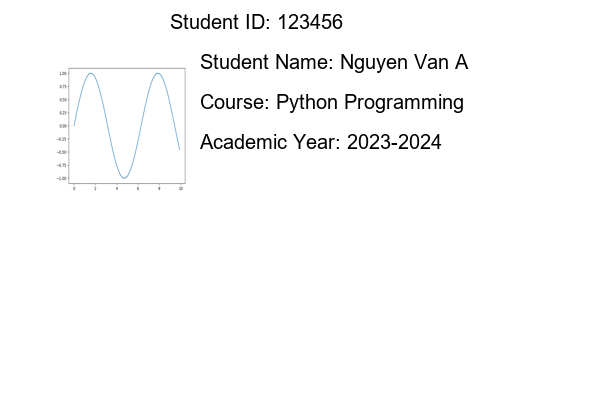
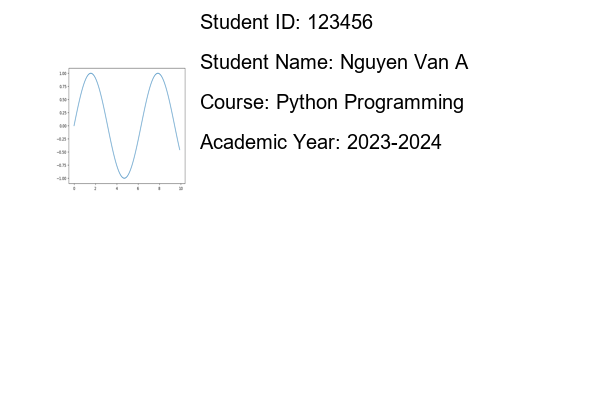
bt3-bt4

Changed region(s): [[0.27, 0.03, 0.63, 0.09]]

diff --git a/TheSinhVien/main/createStudentCard.py b/TheSinhVien/main/createStudentCard.py
@@ -1,0 +1,147 @@
+from io import BytesIO
+from PIL import Image, ImageDraw, ImageFont
+from PyPDF2 import PdfFileReader, PdfFileWriter
+import qrcode
+from unidecode import unidecode
+import os
+
+
+# Độ phân giải xuất ảnh
+DPI = 300
+# Kích thước thẻ theo cm
+widthCard = 8.6
+hightCard = 5.4
+# Kích thước thẻ theo pixel
+width =int(widthCard * DPI)
+hight = int(hightCard * DPI)
+
+# Đường dẫn tới file ảnh
+backgroundImagePath = "TheSinhVien/assets/image/background.jpg"
+logoImagePath = "TheSinhVien/assets/image/logo.png"
+
+
+
+def renderStudentCard(student, i):
+    imageStudentPath = student.anhThe
+    # Tạo ảnh nền cho thẻ sinh viên
+    # img = Image.new('RGB', (width, hight), (255, 255, 255))
+    img = Image.open(backgroundImagePath)
+    img = img.resize((width, hight))
+
+    # Vẽ khung trên 
+    draw = ImageDraw.Draw(img)
+    hightHeader = int(hight/4)
+    draw.rectangle((0, 0, width, hightHeader), fill =(0, 0, 102))
+
+    
+    # Tạo đối tượng QRCode
+    qr = qrcode.QRCode(version=1, box_size=15, border=1)
+    # Lưu dữ liệu vào QRCode
+    data = student.hoTen
+    qr.add_data(data)
+    # Tạo QRCode
+    qr.make(fit=True)
+    # Lấy hình ảnh của QRCode
+    imgQr = qr.make_image(fill_color="black", back_color="white")
+    widthQr, heightQr = imgQr.size
+    qr_pos = ((width - widthQr), (hight - heightQr))
+    
+
+    # Vẽ logo
+    student_image = Image.open(logoImagePath)
+    widthLogo = int(width/6)
+    paddingLogo = 50
+    hightLogo = int(hightHeader) - paddingLogo*2
+    student_image = student_image.resize((widthLogo, hightLogo))
+    img.paste(student_image, (paddingLogo, paddingLogo))
+
+    # Tiêu đề trường phía trên
+    fontHeader = ImageFont.truetype('arialbd.ttf', 100)
+    headerTitle = "BỘ GIÁO DỤC VÀ ĐÀO TẠO"
+    headerTitle2 = "TRƯỜNG ĐẠI HỌC PHÚ XUÂN"
+    textWidthHeader, textHeightHeader = fontHeader.getsize(headerTitle)
+    textWidthHeader2, textHeightHeader2 = fontHeader.getsize(headerTitle2)
+    paddingLeft = ((width - widthLogo - paddingLogo * 2) - textWidthHeader) / 2 + (widthLogo + paddingLogo * 2)
+    paddingLeft2 = ((width - widthLogo - paddingLogo * 2) - textWidthHeader2) / 2 + (widthLogo + paddingLogo * 2)
+   
+    paddingTop = (hightHeader - textHeightHeader) / 4
+    paddingTop2 = (hightHeader - textHeightHeader2) / 1.5
+  
+    draw.text((paddingLeft, paddingTop), headerTitle, font=fontHeader, fill=(255, 204, 0))
+    draw.text((paddingLeft2, paddingTop2), headerTitle2, font=fontHeader, fill=(255, 204, 0))
+
+    # Ảnh sinh viên
+    hightImage = int(hight / 2 )
+    withImage = int(width / 4)
+    # draw.rectangle((paddingLogo, hightHeader + 100, withImage, hightImage), fill ='black')
+    imgLogo = Image.open(imageStudentPath)
+    imgLogo = imgLogo.resize((withImage, hightImage))
+    imageStudentPos = ((paddingLogo, hightHeader + 100))
+    img.paste(imgLogo, imageStudentPos)
+
+    # Thêm text Thẻ sinh viên
+    fontStudentCard = ImageFont.truetype('arialbd.ttf', 120)
+    titleStudentCard = "Thẻ Sinh Viên"
+    textWidthStudentCard, textHeightStudentCard = fontStudentCard.getsize(titleStudentCard)
+    paddingLeftStudentCard = ((width - withImage - paddingLogo * 2) - textWidthStudentCard) / 2 + (withImage + paddingLogo * 2)
+    paddingTopStudentCard = (hightHeader  + 100) 
+    draw.text((paddingLeftStudentCard, paddingTopStudentCard), titleStudentCard, font=fontStudentCard, fill=(180, 37, 50))
+
+    # Thêm text Họ và tên
+    fillText = (0, 0, 0)
+    fontInfo= ImageFont.truetype('arial.ttf', 80)
+    fontInfoDetail= ImageFont.truetype('arialbd.ttf', 80)
+    paddingLeftInfo= paddingLogo * 2 + withImage
+    paddingTopText = 130
+    paddingTopName = paddingTopStudentCard + paddingTopText
+    textWidthName, textHeightName = fontInfo.getsize("Họ và Tên")
+    draw.text((paddingLeftInfo, paddingTopName), "Họ và Tên:", font=fontInfo, fill=fillText)
+    draw.text((paddingLeftInfo + textWidthName + 50, paddingTopName), student.hoTen, font=fontInfoDetail, fill=fillText)
+
+
+    paddingTopName = paddingTopStudentCard + paddingTopText * 2
+    textWidthBirthday, textHeightBirthday = fontInfo.getsize("Ngày Sinh:")
+    draw.text((paddingLeftInfo, paddingTopName), "Ngày Sinh:", font=fontInfo, fill=fillText)
+    draw.text((paddingLeftInfo + textWidthBirthday + 50, paddingTopName), student.ngaySinh, font=fontInfoDetail, fill=fillText)
+
+
+    paddingTopName = paddingTopStudentCard + paddingTopText * 3
+    textWidthKhoa, textHeightKhoa = fontInfo.getsize("Khoa:")
+    draw.text((paddingLeftInfo, paddingTopName), "Khoa:", font=fontInfo, fill=fillText)
+    draw.text((paddingLeftInfo + textWidthKhoa + 50, paddingTopName), student.khoa, font=fontInfoDetail, fill=fillText)
+
+    paddingTopName = paddingTopStudentCard + paddingTopText * 4
+    textWidthKhoa, textHeightKhoa = fontInfo.getsize("Ngành:")
+    draw.text((paddingLeftInfo, paddingTopName), "Ngành:", font=fontInfo, fill=fillText)
+    draw.text((paddingLeftInfo + textWidthKhoa + 50, paddingTopName), student.nganh, font=fontInfoDetail, fill=fillText)
+
+    paddingTopName = paddingTopStudentCard + paddingTopText * 5
+    textWidthKhoa, textHeightKhoa = fontInfo.getsize("Niên khoá:")
+    draw.text((paddingLeftInfo, paddingTopName), "Niên khoá:", font=fontInfo, fill=fillText)
+    draw.text((paddingLeftInfo + textWidthKhoa + 50, paddingTopName), student.nienKhoa, font=fontInfoDetail, fill=fillText)
+
+    paddingTopName = paddingTopStudentCard + paddingTopText * 6
+    textWidthKhoa, textHeightKhoa = fontInfo.getsize("Mã sinh viên:")
+    draw.text((paddingLeftInfo, paddingTopName), "Mã sinh viên:", font=fontInfo, fill=fillText)
+    draw.text((paddingLeftInfo + textWidthKhoa + 50, paddingTopName), student.maSV, font=fontInfoDetail, fill=fillText)
+
+    paddingTopName = paddingTopStudentCard + paddingTopText * 7
+    textWidthKhoa, textHeightKhoa = fontInfo.getsize("Đại học 3 năm, tốt nghiệp sớm, việc làm ngay!")
+    # draw.text((paddingLeftInfo, paddingTopName), "Mã sinh viên:", font=fontInfo, fill=fillText)
+    draw.text(((width - textWidthKhoa - widthQr) / 2, paddingTopName), "Đại học 3 năm, tốt nghiệp sớm, việc làm ngay!", font=fontInfoDetail, fill=fillText)
+
+    img.paste(imgQr, qr_pos)
+
+
+    # draw.text((170, 100), student_name, font=font, fill=(0, 0, 0))
+    nameStudentCard = f"{unidecode(student.hoTen).replace(' ', '')}"
+    # Tạo thư mục mới
+    folder_path = f"./TheSinhVien/output/{unidecode(student.khoa).replace(' ', '')}/{unidecode(student.nganh).replace(' ', '')}/{student.lop}"
+    os.makedirs(folder_path, exist_ok=True)
+
+    # Lưu file ảnh
+    # file_name = 'image1.jpg'
+    file_path = os.path.join(folder_path, f"{nameStudentCard}.png")
+    img.save(file_path)
+    
+    # img.save(f'TheSinhVien/output/{nameStudentCard}.png')

diff --git a/TheSinhVien/main/layout.py b/TheSinhVien/main/layout.py
@@ -1,0 +1,101 @@
+import tkinter as tk
+from tkinter import filedialog
+import openpyxl
+from PIL import Image, ImageDraw, ImageFont
+
+class Application(tk.Frame):
+    def __init__(self, master=None):
+        super().__init__(master)
+        self.master = master
+        self.pack()
+        self.create_widgets()
+
+    def create_widgets(self):
+        # Tạo label để yêu cầu người dùng chọn file Excel
+        self.excel_label = tk.Label(self, text="Chọn file Excel")
+        self.excel_label.pack(side="top")
+
+        # Tạo button để cho người dùng chọn file Excel
+        self.excel_button = tk.Button(self, text="Chọn file", command=self.select_excel)
+        self.excel_button.pack(side="top")
+
+        # Tạo label để yêu cầu người dùng chọn mẫu thẻ sinh viên
+        self.template_label = tk.Label(self, text="Chọn mẫu thẻ sinh viên")
+        self.template_label.pack(side="top")
+
+        # Tạo listbox để cho người dùng chọn mẫu thẻ sinh viên
+        self.template_listbox = tk.Listbox(self, height=3)
+        self.template_listbox.pack(side="top")
+        self.template_listbox.insert(1, "Mẫu 1")
+        self.template_listbox.insert(2, "Mẫu 2")
+        self.template_listbox.insert(3, "Mẫu 3")
+
+        # Tạo button để bắt đầu tạo thẻ sinh viên
+        self.create_button = tk.Button(self, text="Tạo thẻ sinh viên", command=self.create_cards)
+        self.create_button.pack(side="bottom")
+
+    def select_excel(self):
+        # Mở hộp thoại để cho người dùng chọn file Excel
+        self.excel_file = filedialog.askopenfilename()
+
+    def create_cards(self):
+        # Lấy thông tin file Excel và mẫu thẻ được chọn bởi người dùng
+        excel_file = self.excel_file
+        template = self.template_listbox.get(self.template_listbox.curselection())
+
+        # Gọi hàm để tạo thẻ sinh viên
+        create_student_cards(excel_file, template)
+
+# Hàm để tạo thẻ sinh viên
+def create_student_cards(excel_file, template):
+    # Code để tạo thẻ sinh viên từ file Excel và mẫu thẻ được chọn
+    # Mở file Excel và chọn sheet để đọc dữ liệu
+    wb = openpyxl.load_workbook(excel_file)
+    sheet = wb.active
+
+    # Lấy thông tin về số lượng sinh viên và các trường thông tin cần hiển thị trên thẻ sinh viên
+    num_students = sheet.max_row - 1
+    headers = [cell.value for cell in sheet[1]]
+
+    # Load mẫu thẻ sinh viên
+    template_file = f"{template}.png"
+    card = Image.open(template_file)
+
+    # Đặt font và kích thước cho các trường thông tin trên thẻ sinh viên
+    font = ImageFont.truetype("arial.ttf", 16)
+    text_color = (0, 0, 0)
+
+    # Vẽ các trường thông tin lên thẻ sinh viên cho từng sinh viên
+    for i in range(2, sheet.max_row + 1):
+        # Lấy thông tin của một sinh viên
+        student_info = [cell.value for cell in sheet[i]]
+
+        # Tạo một hình ảnh mới từ mẫu thẻ sinh viên
+        new_card = card.copy()
+
+        # Vẽ các trường thông tin lên hình ảnh thẻ sinh viên
+        draw = ImageDraw.Draw(new_card)
+        for j, header in enumerate(headers):
+            x = 50
+            y = 100 + j * 30
+            draw.text((x, y), f"{header}: {student_info[j]}", font=font, fill=text_color)
+
+        # Lưu hình ảnh thẻ sinh viên mới
+        new_card.save(f"card_{i-1}.png")
+
+def show_student_card(student_id):
+    # Tạo đường dẫn đến hình ảnh thẻ sinh viên
+    image_path = f"card_{student_id}.png"
+    
+    # Kiểm tra xem hình ảnh có tồn tại không
+    if not os.path.exists(image_path):
+        print(f"Hình ảnh thẻ sinh viên {student_id} không tồn tại.")
+        return
+    
+    # Đọc hình ảnh thẻ sinh viên và hiển thị nó
+    image = Image.open(image_path)
+    image.show(title=f"Thẻ sinh viên {student_id}")
+    
+root = tk.Tk()
+app = Application(master=root)
+app.mainloop()

diff --git a/TheSinhVien/main/readFileExcel.py b/TheSinhVien/main/readFileExcel.py
@@ -1,0 +1,41 @@
+# pip install wheel
+# pip install pandas
+# pip install openpyxl
+import pandas as pd
+
+
+class Student:
+    def __init__(self, maSV, hoTen, ngaySinh, khoa, nganh, lop, nienKhoa, anhThe):
+        self.maSV = maSV
+        self.hoTen = hoTen
+        self.ngaySinh = ngaySinh
+        self.khoa = khoa
+        self.nganh = nganh
+        self.lop = lop
+        self.nienKhoa = nienKhoa
+        self.anhThe = anhThe
+        # self.xepLoai = self.xepLoaiHocLuc()
+# đọc file excel
+
+
+def readExcel(url):
+    # đọc file excel
+    # skiprows: bỏ qua n dòng đầu tiên
+    # nrows: chỉ đọc n dòng
+    # usecols: chỉ đọc cột 1 => 8
+    # iloc[a, b] a: hàng, b: cột
+    require_cols = [1, 2, 3, 4, 5, 6, 7, 8]
+    dataframe1 = pd.read_excel(
+        url,  skiprows=1, nrows=20, usecols=require_cols)
+    listStudent = []
+    for i in range(len(dataframe1)):
+        sv = Student(dataframe1.iloc[i, 0], dataframe1.iloc[i, 1], dataframe1.iloc[i, 2], dataframe1.iloc[i, 3],
+                     dataframe1.iloc[i, 4], dataframe1.iloc[i, 5], dataframe1.iloc[i, 6], dataframe1.iloc[i, 7])
+        listStudent.append(sv)
+    return listStudent
+
+
+
+# listStudent = SortListStudent(listStudent)
+# printListStudent(listStudent)
+# statistical(listStudent)

diff --git a/demo/demo3.py b/demo/demo3.py
@@ -25,7 +25,7 @@ text_color = (0, 0, 0)
 text_draw = ImageDraw.Draw(background)
 
 # Chèn các trường dữ liệu vào thẻ
-text_draw.text((170, 10), "Student ID: {}".format(student_id), fill=text_color, font=font)
+text_draw.text((200, 10), "Student ID: {}".format(student_id), fill=text_color, font=font)
 text_draw.text((200, 50), "Student Name: {}".format(student_name), fill=text_color, font=font)
 text_draw.text((200, 90), "Course: {}".format(course), fill=text_color, font=font)
 text_draw.text((200, 130), "Academic Year: {}".format(academic_year), fill=text_color, font=font)

diff --git a/TheSinhVien/main/index.py b/TheSinhVien/main/index.py
@@ -1,0 +1,9 @@
+import readFileExcel
+import createStudentCard
+
+url = 'D:\\Study\\DHPhuXuan\\Nam3\\HK-Spring\\Python\\TheSinhVien\\assets\\input\\danhsachsinhvien.xlsx'
+
+listStudent = readFileExcel.readExcel(url)
+# In ra danh sách sinh viên với các thông tin cần thiết
+for i, student in enumerate(listStudent, start=1):
+    createStudentCard.renderStudentCard(student, i)
